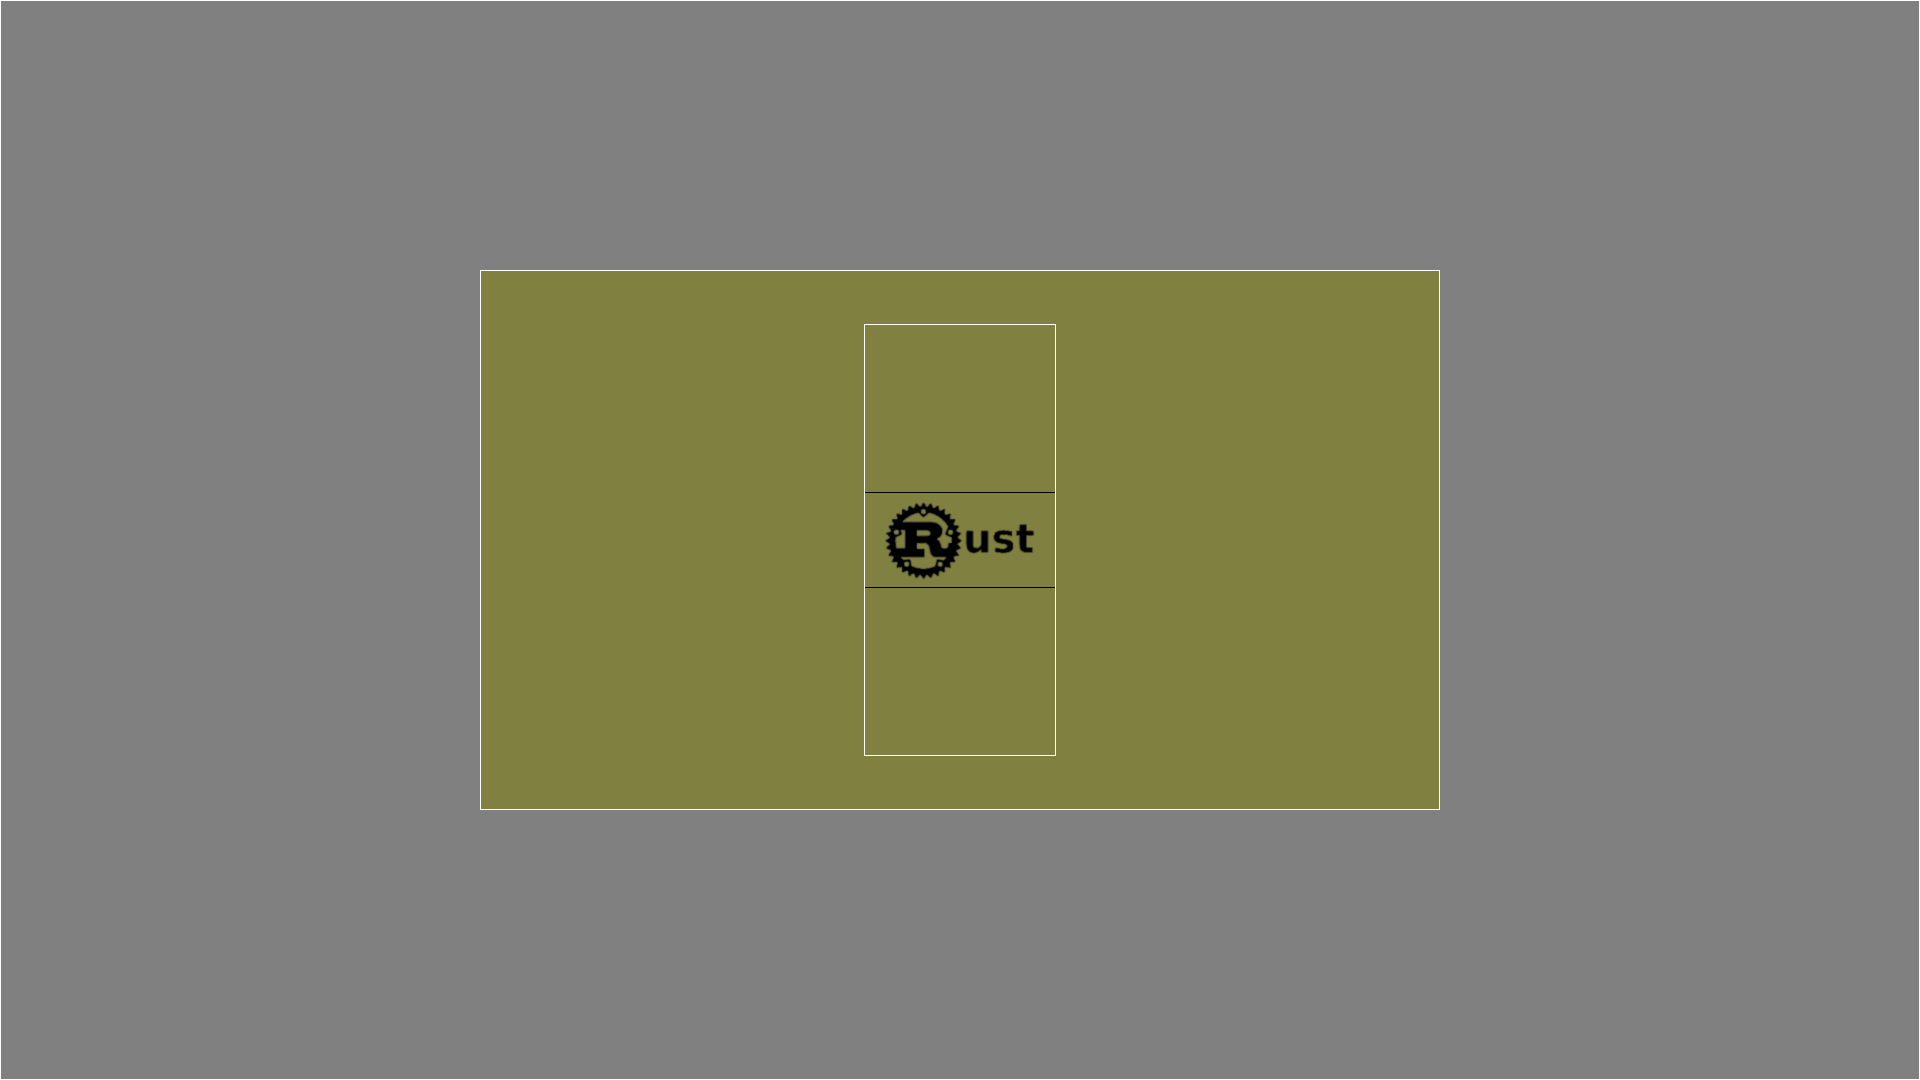
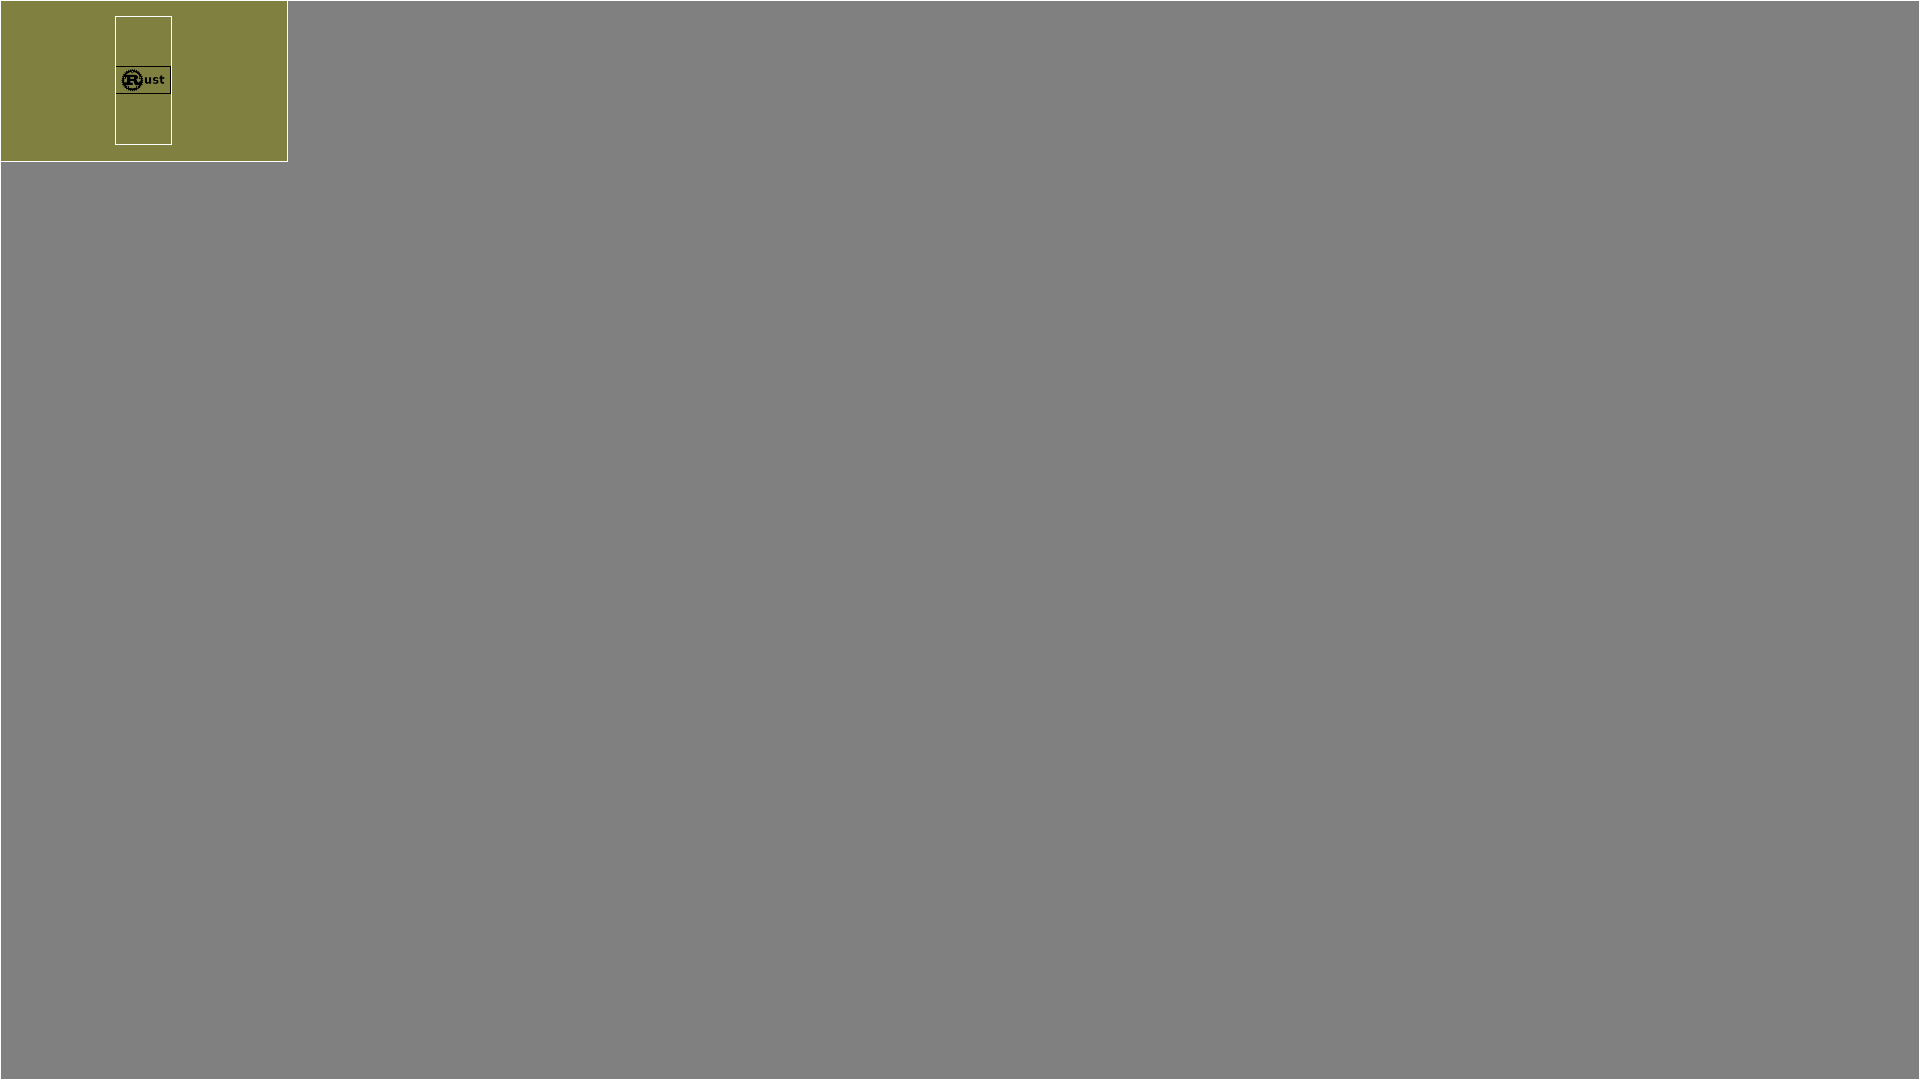
no message

Changed region(s): [[0.25, 0.2444, 0.75, 0.7639], [0.0, 0.0, 0.1562, 0.1528]]

diff --git a/src/node.rs b/src/node.rs
@@ -11,6 +11,7 @@ use sprite::*;
 
 pub struct Node<'a> {
     pub key : NodeKey,
+    pub tag : String,
     pub float_frame : FloatRect,
     pub anchor_point:AnchorPoint,
     pub frame : Rect,
@@ -32,20 +33,44 @@ impl<'a, 'b : 'a> Node<'a> {
     }
 
     pub fn fix_rect_for_parent_fix_rect(&self, parent_node_rect:&Rect, parent_anchor_point:&AnchorPoint) -> Rect {
-        let node_width = (self.float_frame.size.width * (parent_node_rect.size.width as f32)) as u32;
-        let node_height = (self.float_frame.size.height * (parent_node_rect.size.height as f32)) as u32;
 
-        let half_parent_width = (parent_node_rect.size.width >> 1) as f32;
-        let half_parent_height = (parent_node_rect.size.height >> 1) as f32;
+        let mut node_width = self.float_frame.size.width * parent_node_rect.size.width as f32;
+        let mut node_height = self.float_frame.size.height * parent_node_rect.size.height as f32;
+
+
+        let parent_node_x = parent_node_rect.pos.x as f32 + parent_node_rect.size.width as f32 * parent_anchor_point.x;
+        let parent_node_y = parent_node_rect.pos.y as f32 + parent_node_rect.size.height as f32 * parent_anchor_point.y;
+
+        println!("1. {} {} ", parent_node_x, parent_node_y);
+
+        let node_pos_x = parent_node_x + self.float_frame.pos.x * parent_node_rect.size.width as f32;
+        let node_pos_y = parent_node_y + self.float_frame.pos.y * parent_node_rect.size.height as f32;
+
+        println!("2. {} {} {}", node_pos_x, node_pos_y, self.float_frame.pos.x * parent_node_rect.size.width as f32);
+
+        let mut node_x = node_pos_x - node_width * self.anchor_point.x;
+        let mut node_y = node_pos_y - node_height * self.anchor_point.y;
+
+//        if node_x < 0.0 {
+//            node_width += node_x;
+//            node_x = 0.0;
+//        }
+//
+//        if node_y < 0.0 {
+//            node_height += node_y;
+//            node_y = 0.0;
+//        }
+
+        println!("fix_rect_for_parent_fix_rect.2 {} {} {} {} {}", self.tag, parent_node_x, parent_node_y, node_x, node_y);
 
         Rect {
             pos : Pos {
-                x : parent_node_rect.pos.x + (((parent_node_rect.size.width - node_width) as f32 * self.anchor_point.x + (self.float_frame.pos.x * half_parent_width)) as u32),
-                y : parent_node_rect.pos.y + (((parent_node_rect.size.height - node_height) as f32 * self.anchor_point.y + (self.float_frame.pos.y * half_parent_height)) as u32),
+                x : node_x as u32,
+                y : node_y as u32,
             },
             size : Size {
-                width : node_width,
-                height : node_height,
+                width : node_width as u32,
+                height : node_height as u32,
             },
         }
     }
@@ -56,6 +81,7 @@ impl<'a, 'b : 'a> Node<'a> {
 
     pub fn draw_if_need(&mut self, screen_info:&ScreenInfo) {
         if self.need_draw {
+            println!("node {} {:?}", self.tag, self.frame);
             self.sprite.draw(&self.frame, screen_info);
             self.need_draw = false;
         }
@@ -77,6 +103,7 @@ impl<'a, 'b : 'a> Node<'a> {
     pub fn new_rect_node(float_frame:FloatRect, sprite:RectSprite) -> Node<'a> {
         Node {
             key : Self::generate_key(),
+            tag : String::new(),
             float_frame : float_frame,
             anchor_point: ANCHOR_POINT_CENTER,
             frame: RECT_ZERO,
@@ -88,6 +115,7 @@ impl<'a, 'b : 'a> Node<'a> {
     pub fn new_text_node(float_frame:FloatRect, sprite:TextSprite) -> Node<'a> {
          Node {
              key : Self::generate_key(),
+             tag : String::new(),
              float_frame : float_frame,
              anchor_point: ANCHOR_POINT_CENTER,
              frame: RECT_ZERO,
@@ -99,6 +127,7 @@ impl<'a, 'b : 'a> Node<'a> {
     pub fn new_texture_node(float_frame:FloatRect, sprite:TextureSprite) -> Node<'a> {
         Node {
             key : Self::generate_key(),
+            tag : String::new(),
             float_frame : float_frame,
             anchor_point: ANCHOR_POINT_CENTER,
             frame: RECT_ZERO,

diff --git a/src/scene_bundle.rs b/src/scene_bundle.rs
@@ -95,6 +95,7 @@ fn process_scene_attributes<'a>(
     _scene: &Scene,
     attributes: Vec<xml::attribute::OwnedAttribute>,
 ) -> node::Node<'a> {
+    let tag = resolve_text_from_attributes("tag", &attributes, String::new());
     let anchor_point = resolve_anchor_from_attributes(&attributes, ANCHOR_POINT_CENTER);
     let alpha = resolve_float_from_attributes("alpha", &attributes, 1.0);
     let color =
@@ -105,10 +106,12 @@ fn process_scene_attributes<'a>(
 
     let mut node = node::Node::new_rect_node(FLOAT_RECT_FULL, box_sprite);
     node.anchor_point = anchor_point;
+    node.tag = tag;
     node
 }
 
 fn process_box_attributes<'a>(attributes: Vec<xml::attribute::OwnedAttribute>) -> node::Node<'a> {
+    let tag = resolve_text_from_attributes("tag", &attributes, String::new());
     let alpha = resolve_float_from_attributes("alpha", &attributes, 1.0);
     let color =
         resolve_color_from_attributes(&attributes, color::GRAY).color_with_alpha_float(alpha);
@@ -126,6 +129,7 @@ fn process_box_attributes<'a>(attributes: Vec<xml::attribute::OwnedAttribute>) -
         box_sprite,
     );
     node.anchor_point = anchor_point;
+    node.tag = tag;
     node
 }
 
@@ -133,6 +137,7 @@ fn process_text_attributes<'a>(
     attributes: Vec<xml::attribute::OwnedAttribute>,
     scene_bundle: &resource::SceneBundle,
 ) -> node::Node<'a> {
+    let tag = resolve_text_from_attributes("tag", &attributes, String::new());
     let alpha = resolve_float_from_attributes("alpha", &attributes, 1.0);
     let color =
         resolve_color_from_attributes(&attributes, color::GRAY).color_with_alpha_float(alpha);
@@ -165,6 +170,7 @@ fn process_text_attributes<'a>(
         text_sprite,
     );
     node.anchor_point = anchor_point;
+    node.tag = tag;
     node
 }
 
@@ -172,6 +178,7 @@ fn process_texture_attributes<'a>(
     attributes: Vec<xml::attribute::OwnedAttribute>,
     scene_bundle: &resource::SceneBundle,
 ) -> node::Node<'a> {
+    let tag = resolve_text_from_attributes("tag", &attributes, String::new());
     let pos = resolve_position_from_attributes(&attributes, FLOAT_POS_ZERO);
     let size = resolve_size_from_attributes(&attributes, FLOAT_SIZE_HALF);
     let anchor_point = resolve_anchor_from_attributes(&attributes, ANCHOR_POINT_CENTER);
@@ -194,6 +201,7 @@ fn process_texture_attributes<'a>(
         texture_sprite,
     );
     node.anchor_point = anchor_point;
+    node.tag = tag;
     node
 }
 

diff --git a/src/texture.rs b/src/texture.rs
@@ -75,7 +75,7 @@ impl<'a> Sprite<'a> for TextureSprite {
                 height = outer_rect.size.height;
                 width = (height as f32 * image_aspect) as u32;
             }
-            
+
             let new_image = image.resize(width, height, imageops::Gaussian);
             self.raw_pixels = new_image.raw_pixels();
             width = new_image.width();
@@ -89,6 +89,9 @@ impl<'a> Sprite<'a> for TextureSprite {
     }
 
     fn render(&mut self, fixed_rect:&Rect, screen_info:&ScreenInfo, canvas_ptr:*mut u32) {
+
+        println!("render {:?}", fixed_rect);
+
         render_to_canvas(self.raw_pixels.as_slice().as_ptr() as *mut u32, fixed_rect, &self.frame, screen_info, canvas_ptr);
     }
 }

diff --git a/src/sprite.rs b/src/sprite.rs
@@ -11,8 +11,10 @@ impl<'a> Sprite<'a> {
 
 }
 pub fn render_to_canvas(raw_pixels_ptr:*const u32, outer_frame:&Rect, inner_frame:&Rect, screen_info:&ScreenInfo, canvas_ptr:*mut u32) {
+    println!("{} {} {}", outer_frame.pos.y, screen_info.xres, outer_frame.pos.x);
     let outer_offset = outer_frame.pos.y * screen_info.xres + outer_frame.pos.x;
     let inner_offset = outer_offset + inner_frame.pos.y * screen_info.xres + inner_frame.pos.x;
+
 
     for y in 0..inner_frame.size.height {
         if y + outer_frame.pos.y >= screen_info.yres {

diff --git a/src/scene.rs b/src/scene.rs
@@ -77,6 +77,10 @@ impl<'a> Scene<'a> {
             if let Some(ref node) = self.nodes.get(node_key) {
                 let mut node_mut = node.borrow_mut();
                 let frame_rect = node_mut.fix_rect_for_parent_fix_rect(parent_node_rect, &parent_acnhor_point);
+
+                println!("{} {:?}", node_mut.tag, frame_rect);
+
+
                 node_mut.layout(frame_rect, screen_info);
 
                 if let Some(key_cell) = self.hierarchy.get(&node_mut.key) {
